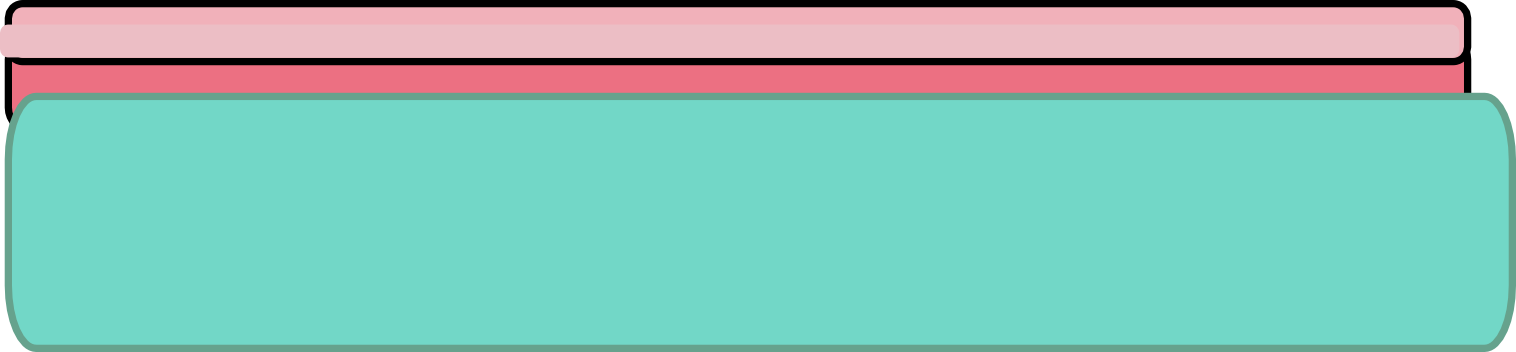
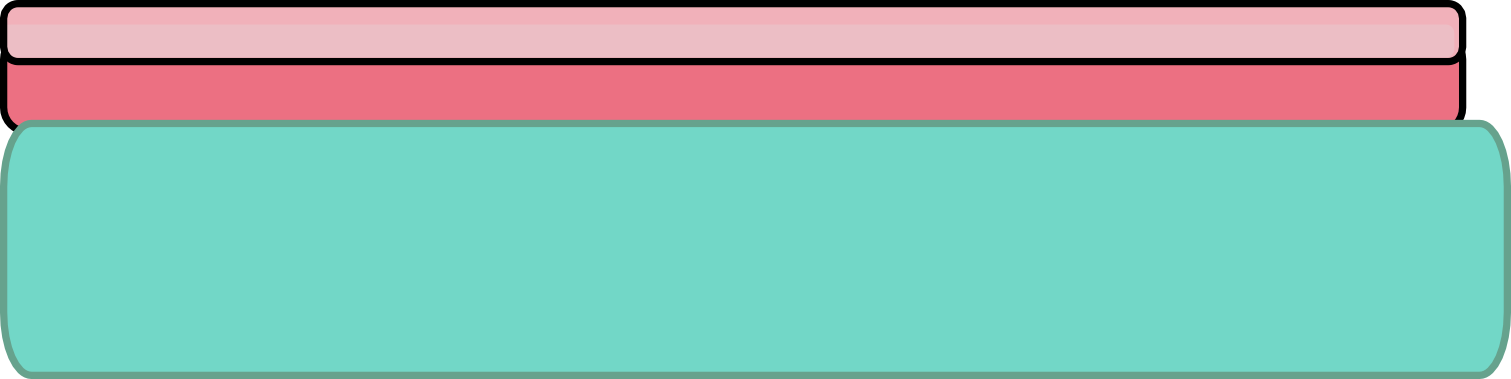
pushing

Changed region(s): [[0.0, 0.0, 1.0, 0.4688], [0.0, 0.4062, 0.0311, 1.0], [0.9954, 0.8125, 1.0, 0.9375]]

diff --git a/src/scenes/Level.ts b/src/scenes/Level.ts
@@ -87,28 +87,28 @@ export default class Level extends Phaser.Scene {
 		const fryer2 = this.add.image(390, 654, "Fryer");
 
 		// holder1
-		const holder1 = this.add.image(80, 544, "Holder");
+		const holder1 = this.add.image(80, 561, "Holder");
 
 		// holder2
-		const holder2 = this.add.image(80, 650, "Holder");
+		const holder2 = this.add.image(80, 667, "Holder");
 
 		// holder3
-		const holder3 = this.add.image(210, 650, "Holder");
+		const holder3 = this.add.image(210, 667, "Holder");
 
 		// holder4
-		const holder4 = this.add.image(210, 544, "Holder");
+		const holder4 = this.add.image(210, 561, "Holder");
 
 		// workplace1
-		const workplace1 = this.add.image(1175, 644, "workplace");
+		const workplace1 = this.add.image(1175, 660, "workplace");
 
 		// workplace2
-		const workplace2 = this.add.image(1042, 644, "workplace");
+		const workplace2 = this.add.image(1042, 660, "workplace");
 
 		// chocolateDip
-		const chocolateDip = this.add.image(1042, 543, "ChocolateDip");
+		const chocolateDip = this.add.image(1042, 559, "ChocolateDip");
 
 		// candyDip
-		const candyDip = this.add.image(1175, 543, "CandyDip");
+		const candyDip = this.add.image(1175, 559, "CandyDip");
 
 		// chocolateIcon
 		const chocolateIcon = this.add.image(1039, 539, "chocolateIcon");
@@ -119,11 +119,11 @@ export default class Level extends Phaser.Scene {
 		candyicon.visible = false;
 
 		// charola1
-		const charola1 = this.add.image(927, 407, "Charola");
+		const charola1 = this.add.image(927, 399, "Charola");
 		charola1.scaleX = 1.2;
 
 		// charola2
-		const charola2 = this.add.image(315, 407, "Charola");
+		const charola2 = this.add.image(315, 399, "Charola");
 		charola2.scaleX = 1.2;
 
 		// lamp
@@ -133,19 +133,19 @@ export default class Level extends Phaser.Scene {
 		this.add.image(1035, 57, "lamp");
 
 		// rawProduct1
-		const rawProduct1 = new AProduct(this, 78, 547);
+		const rawProduct1 = new AProduct(this, 78, 564);
 		this.add.existing(rawProduct1);
 
 		// rawProduct2
-		const rawProduct2 = new AProduct(this, 81, 653, "Product2Raw");
+		const rawProduct2 = new AProduct(this, 81, 670, "Product2Raw");
 		this.add.existing(rawProduct2);
 
 		// milkGlass
-		const milkGlass = new milkglass(this, 210, 536);
+		const milkGlass = new milkglass(this, 210, 553);
 		this.add.existing(milkGlass);
 
 		// sandwichProduct
-		const sandwichProduct = new sandwichPrefab(this, 209, 651);
+		const sandwichProduct = new sandwichPrefab(this, 209, 668);
 		this.add.existing(sandwichProduct);
 
 		// blurOverlay
@@ -166,18 +166,19 @@ export default class Level extends Phaser.Scene {
 		const menuBtn = this.add.image(1229, 47, "menuBtn");
 
 		// cookieJar
-		const cookieJar = this.add.image(93, 369, "cookieJar");
+		const cookieJar = this.add.image(144, 450, "cookieJar");
 		cookieJar.scaleX = 0.7;
 		cookieJar.scaleY = 0.7;
-		cookieJar.visible = false;
 
 		// glace2
-		const glace2 = this.add.image(1220, 377, "glace2");
-		glace2.visible = false;
+		this.add.image(1145, 458, "glace2");
 
 		// glace1
-		const glace1 = this.add.image(1137, 381, "glace1");
-		glace1.visible = false;
+		this.add.image(1062, 462, "glace1");
+
+		// likeHeart
+		const likeHeart = new LikeHeart(this, 470, 183);
+		this.add.existing(likeHeart);
 
 		// overTrayIcon
 		this.add.image(312, 391, "overTrayIcon");